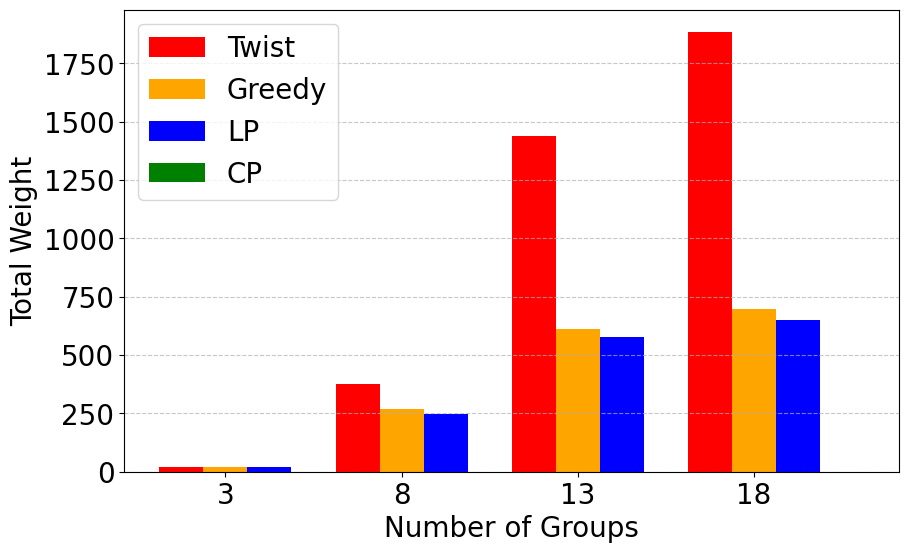
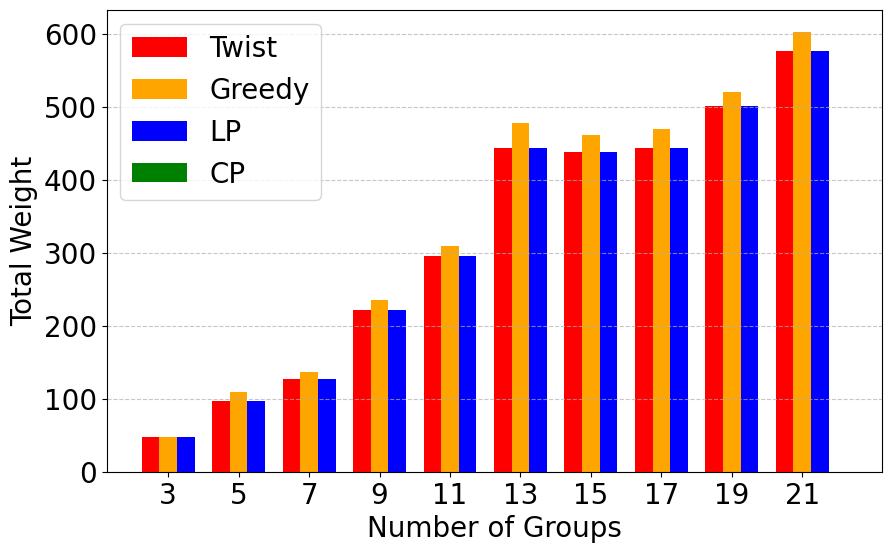
Add new twist

diff --git a/census_exp.py b/census_exp.py
@@ -271,7 +271,7 @@ def plot_twist(f):
 def calc_pwl(functions, demands, all_keys):
     # Check the cnt
     max_parts = 200
-    base_log = 2**6
+    base_log = 2**4
     max_size = 10000000
     
     max_demand = []
@@ -281,7 +281,7 @@ def calc_pwl(functions, demands, all_keys):
             if key[i] == 0:
                 continue
             max_tmp = max(max_tmp, demands[i])
-        max_demand.append(max_tmp)
+        max_demand.append(max_tmp + 1)
     
     default_x_list = [0]
     lst_add = 1
@@ -325,7 +325,7 @@ def calc_pwl(functions, demands, all_keys):
     
 
 
-def run_twist(dic2, demands):
+def run_twist1(dic2, demands):
     all_keys = list(dic2.keys())
     convex_functions = []
     cnt = []
@@ -377,8 +377,10 @@ def run_twist(dic2, demands):
         
         # Piecewise linear function is max of linear functions: slope_k * x + intercept_k
         linear_terms = [slope * x[i] + intercept for slope, intercept in zip(slopes, intercepts)]
-        # Approximate cost is max of these linear functions
-        cost_i = cp.maximum(*linear_terms)
+        if len(linear_terms) == 1:
+            cost_i = linear_terms[0]
+        else:
+            cost_i = cp.maximum(*linear_terms)
         cost_terms.append(cost_i)
     
     objective = cp.Minimize(cp.sum(cost_terms))
@@ -400,7 +402,8 @@ def run_twist(dic2, demands):
     
     # Use a solver for continuous problems (e.g., ECOS, SCS, or default)
     try:
-        problem.solve(solver=cp.ECOS, verbose=True)
+        #problem.solve(solver=cp.ECOS, verbose=True)
+        problem.solve()
     except cp.SolverError as e:
         print(f"Solver error: {e}")
         return None, None
@@ -413,10 +416,88 @@ def run_twist(dic2, demands):
     # Extract solution
     solution = [x[i].value for i in range(m)]
     optimal_cost = problem.value
-    
+    print(optimal_cost)
     return optimal_cost
+
+import pulp
     
+def run_twist(dic2, demands):
+    all_keys = list(dic2.keys())
+    convex_functions = []
+    cnt = []
+    for key in all_keys:
+        cur_q = dic2[key]
+        ps = 0
+        curr_f = [0]
+        for x in cur_q:
+            ps += x
+            curr_f.append(ps)
+        convex_functions.append(curr_f)
+        cnt.append(len(curr_f) - 1)
+    #plot_twist(convex_functions)
     
+    knots_x_list, knots_y_list = calc_pwl(convex_functions, demands, all_keys)
+    n = len(demands)
+    m = len(cnt)
+    
+    prob = pulp.LpProblem("Set_Multicover", pulp.LpMinimize)
+    
+    # Decision variables: x[i] is the number of copies of set i (continuous)
+    x = [pulp.LpVariable(f"x_{i}", lowBound=0, upBound=cnt[i], cat="Continuous") for i in range(m)]
+    
+    # Auxiliary variables for PWL costs: z[i] represents cost of set i
+    z = [pulp.LpVariable(f"z_{i}", lowBound=0, cat="Continuous") for i in range(m)]
+    
+    # Objective: Minimize sum of z[i]
+    prob += pulp.lpSum(z)
+    
+    # Constraints
+    # PWL cost constraints
+    for i in range(m):
+        knots_x = knots_x_list[i]
+        knots_y = knots_y_list[i]
+        num_knots = len(knots_x)
+        
+        # Validate knots
+        if len(knots_y) != num_knots or num_knots < 2:
+            raise ValueError(f"Invalid knots for set {i}: need at least 2 knots, got {num_knots}")
+        
+        # Compute slopes and intercepts
+        for k in range(num_knots - 1):
+            x1, x2 = knots_x[k], knots_x[k + 1]
+            y1, y2 = knots_y[k], knots_y[k + 1]
+            if x2 <= x1:
+                raise ValueError(f"Knots_x for set {i} must be strictly increasing")
+            slope = (y2 - y1) / (x2 - x1)
+            intercept = y1 - slope * x1
+            # Constraint: z[i] >= slope * x[i] + intercept
+            prob += z[i] >= slope * x[i] + intercept, f"cost_constraint_{i}_{k}"
+    
+    # Demand satisfaction constraints
+    for j in range(n):
+        prob += (
+            pulp.lpSum(x[i] * all_keys[i][j] for i in range(m)) >= demands[j],
+            f"demand_{j}"
+        )
+    
+    # Solve the problem
+    try:
+        prob.solve(pulp.PULP_CBC_CMD(msg=1))
+    except Exception as e:
+        print(f"Solver error: {e}")
+        return None, None
+    
+    # Check if solution exists
+    if prob.status != pulp.LpStatusOptimal:
+        print(f"Problem status: {pulp.LpStatus[prob.status]}")
+        return None, None
+    
+    # Extract solution
+    solution = [x[i].varValue for i in range(m)]
+    optimal_cost = pulp.value(prob.objective)
+
+    print(optimal_cost)
+    return optimal_cost
     
 
 def run_lp(data, demands):
@@ -627,7 +708,7 @@ res_cp_list_avg = []
 res_twist_list_avg = []
 
 demands_org = [np.random.randint(1, 53) for col in all_columns]
-num_groups = range(3, 22, 5)
+num_groups = range(3, 22, 2)
 for num_group in num_groups:
     columns = all_columns[0:num_group]
     print("n_groups: ", num_group)
